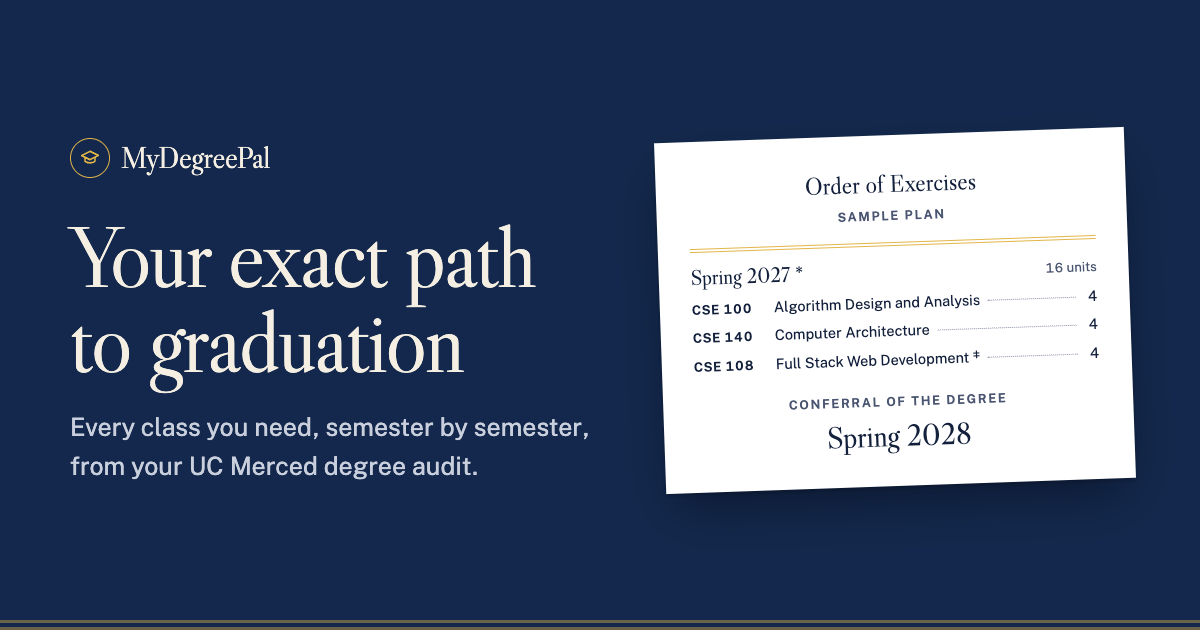
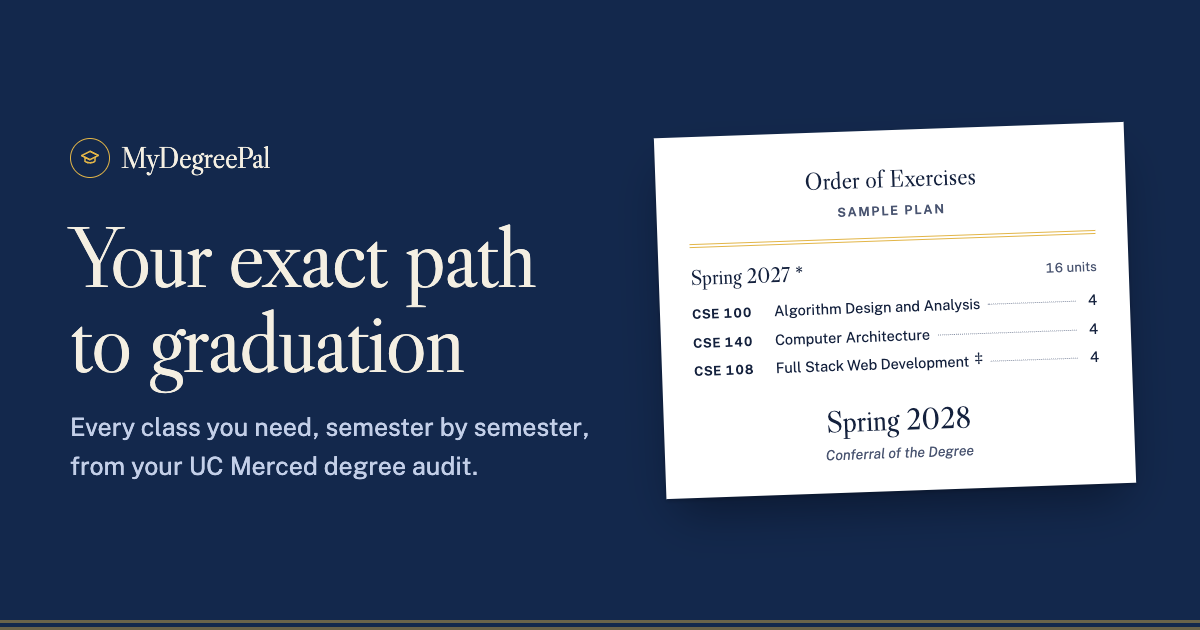
Apply finish-review fixes: ink-only units measure, cover morph, UC Merced lede, conferral order, legible marks

diff --git a/css/style.css b/css/style.css
@@ -74,7 +74,7 @@ button { cursor: pointer; }
 .site-header :focus-visible, .cover :focus-visible, .plan-cover :focus-visible, .whatif :focus-visible { outline-color: var(--foil); }
 
 /* ---- footer: colophon ---------------------------------------------------------- */
-.site-footer { border-top: 1px solid var(--rule); margin-top: 72px; padding: 22px 0 28px; color: var(--ink-2); font-size: 14px; }
+.site-footer { margin-top: 0; padding: 22px 0 28px; color: var(--ink-2); font-size: 14px; }
 .site-footer .wrap { display: flex; justify-content: space-between; gap: 16px; flex-wrap: wrap; }
 .site-footer a { color: var(--ink-2); }
 
@@ -95,7 +95,7 @@ button { cursor: pointer; }
 .link-btn:hover { text-decoration-thickness: 2px; }
 
 /* ---- landing: the program cover ------------------------------------------------- */
-.cover { background: var(--cover); color: var(--ivory); border-bottom: 3px double var(--cover-line); overflow: hidden; }
+.cover { background: var(--cover); color: var(--ivory); border-bottom: 3px double var(--cover-line); overflow: hidden; view-transition-name: cover; }
 .cover-grid { display: grid; grid-template-columns: minmax(0, 1.05fr) minmax(0, .95fr); gap: 56px; align-items: center; padding-top: 72px; padding-bottom: 84px; }
 .cover h1 { font-family: var(--display); font-size: clamp(46px, 6.4vw, 80px); line-height: 1; letter-spacing: -.02em; color: var(--ivory); }
 .cover .lede { margin-top: 22px; font-size: 19px; line-height: 1.5; color: var(--ivory-2); max-width: 30em; }
@@ -113,6 +113,7 @@ button { cursor: pointer; }
 .upload-error { margin-top: 14px; padding: 12px 14px; background: var(--paper); color: var(--flag); font-size: 15px; font-weight: 550; border: 1px solid var(--flag); }
 .alt-action { margin-top: 18px; font-size: 15.5px; color: var(--ivory-2); }
 .alt-action .link-btn { color: var(--foil); }
+.cover-independent { margin-top: 26px; font-size: 13.5px; color: var(--ivory-2); }
 
 /* the opened program beside the cover: a real sample, set as a printed page */
 .specimen { margin: 0; position: relative; }
@@ -127,18 +128,23 @@ button { cursor: pointer; }
 .specimen .term-head span { font-family: var(--sans); font-size: 13px; color: var(--ink-2); }
 .specimen ol { list-style: none; margin: 6px 0 0; padding: 0; font-size: 14.5px; }
 .specimen li { display: grid; grid-template-columns: 74px minmax(0, 1fr) auto; gap: 8px; align-items: baseline; padding: 3px 0; }
-.specimen li b { font-weight: 650; font-size: 13px; letter-spacing: .04em; }
+.specimen li b { font-weight: 650; font-size: 13px; letter-spacing: .04em; white-space: nowrap; }
+.specimen .glyph { font-size: 19px; vertical-align: -4px; margin: 0 0 0 5px; }
+.specimen figcaption .glyph { color: var(--ivory); margin: 0 3px 0 0; }
 .specimen .lead { display: flex; align-items: baseline; min-width: 0; }
-.specimen .lead span { white-space: nowrap; overflow: hidden; text-overflow: ellipsis; }
+.specimen .lead > span:first-child { white-space: nowrap; overflow: hidden; text-overflow: ellipsis; }
 .specimen .lead::after { content: ""; flex: 1; min-width: 12px; margin: 0 4px 0 8px; border-bottom: 1.5px dotted var(--rule-strong); transform: translateY(-4px); }
 .specimen .conferral-line { margin-top: 18px; text-align: center; }
-.specimen .conferral-line span { display: block; color: var(--ink-2); }
-.specimen .conferral-line strong { display: block; font-family: var(--display); font-weight: 400; font-size: 30px; margin-top: 2px; }
+.specimen .conferral-line strong { display: block; font-family: var(--display); font-weight: 400; font-size: 30px; }
+.specimen .conferral-line span { display: block; color: var(--ink-2); font-style: italic; font-size: 14px; }
+.specimen .more-line { color: var(--ink-2); font-style: italic; font-size: 13.5px; padding: 3px 0 0 82px; }
 .specimen figcaption { margin-top: 18px; font-size: 13px; color: var(--ivory-2); text-align: right; }
+.specimen figcaption .key { display: block; margin-top: 2px; }
 
 .rule-double { height: 4px; border-top: 1px solid var(--foil); border-bottom: 1px solid var(--foil); }
 
 /* instructions and the registration slip */
+.paper-band { background: var(--paper); padding-bottom: 64px; border-bottom: 1px solid var(--rule); }
 .instructions { padding-top: 64px; display: grid; grid-template-columns: 260px minmax(0, 1fr); gap: 40px; }
 .instructions h2 { font-family: var(--display); font-size: 34px; line-height: 1.05; }
 .instructions h2 + p { margin-top: 10px; color: var(--ink-2); font-size: 15px; }
@@ -155,11 +161,11 @@ button { cursor: pointer; }
 .notice-links { display: flex; gap: 20px; }
 
 /* ---- plan: cover band, hood band, then the interior sheet ---------------------- */
-.plan-cover { background: var(--cover); color: var(--ivory); }
+.plan-cover { background: var(--cover); color: var(--ivory); view-transition-name: cover; }
 .plan-cover .wrap { display: grid; grid-template-columns: minmax(0, 1fr) auto; gap: 18px 32px; align-items: end; padding-top: 44px; padding-bottom: 36px; }
 .plan-cover h1 { font-family: var(--display); color: var(--ivory); letter-spacing: -.02em; }
 .plan-cover h1 .lead-in { display: block; font-size: clamp(22px, 2.6vw, 30px); color: var(--ivory-2); letter-spacing: -.005em; margin-bottom: 6px; }
-.plan-cover h1 .term { display: block; font-size: clamp(52px, 8.4vw, 104px); line-height: .95; }
+.plan-cover h1 .term { display: block; font-size: clamp(52px, 8vw, 96px); line-height: .95; }
 .plan-cover h1 .term-plain { display: block; font-size: clamp(40px, 5.6vw, 66px); line-height: 1; }
 .byline { margin-top: 18px; color: var(--foil); }
 .result-sub { margin-top: 10px; color: var(--ivory-2); max-width: 44em; font-size: 16px; }
@@ -173,27 +179,24 @@ button { cursor: pointer; }
 .head-actions { display: flex; gap: 10px; flex-wrap: wrap; }
 
 .hood { height: 14px; background: var(--hood); border-bottom: 1px solid rgba(20, 33, 61, .12); }
-.hood-caption { display: flex; justify-content: flex-end; padding-top: 8px; color: var(--ink-2); }
-.hood-caption i { display: inline-block; width: 10px; height: 10px; border-radius: 50%; background: var(--hood); border: 1px solid rgba(20, 33, 61, .35); margin-right: 8px; transform: translateY(1px); }
 
 .sheet {
-  background: var(--paper); margin-top: 14px; padding: 34px 40px 44px;
+  background: var(--paper); margin-top: 22px; margin-bottom: 64px; padding: 34px 40px 44px;
   box-shadow: 0 1px 2px rgba(20, 33, 61, .06), 0 18px 40px -24px rgba(20, 33, 61, .35);
 }
 
 /* units measure: earned, in progress, planned, against what the degree requires */
 .measure { display: grid; gap: 10px; }
-.bar { position: relative; display: flex; height: 12px; background: var(--ground); box-shadow: inset 0 0 0 1px var(--rule-strong); }
+.bar { position: relative; display: flex; height: 12px; gap: 3px; }
 .bar span { display: block; height: 100%; }
-.b-done { background: var(--cover); }
-.b-now { background: repeating-linear-gradient(135deg, var(--cover) 0 2px, #8796b3 2px 5px); }
-.b-plan { background: var(--hood); box-shadow: inset 0 0 0 1px rgba(20, 33, 61, .5); }
+.b-done { background: var(--ink); }
+.b-now { background: repeating-linear-gradient(135deg, var(--ink) 0 1.5px, transparent 1.5px 5px); box-shadow: inset 0 0 0 1.5px var(--ink); }
+.b-plan { box-shadow: inset 0 0 0 1.5px var(--ink); }
 .legend { display: flex; flex-wrap: wrap; gap: 6px 26px; font-size: 14.5px; color: var(--ink-2); }
 .legend b { color: var(--ink); font-weight: 700; }
-.legend i { display: inline-block; width: 12px; height: 12px; margin-right: 7px; transform: translateY(1px); box-shadow: inset 0 0 0 1px rgba(20, 33, 61, .5); }
-.legend .k-done { background: var(--cover); }
-.legend .k-now { background: repeating-linear-gradient(135deg, var(--cover) 0 2px, #8796b3 2px 5px); }
-.legend .k-plan { background: var(--hood); }
+.legend i { display: inline-block; width: 12px; height: 12px; margin-right: 7px; transform: translateY(1px); box-shadow: inset 0 0 0 1.5px var(--ink); }
+.legend .k-done { background: var(--ink); }
+.legend .k-now { background: repeating-linear-gradient(135deg, var(--ink) 0 1.5px, transparent 1.5px 5px); }
 
 .controls { display: flex; flex-wrap: wrap; gap: 16px 34px; align-items: flex-end; margin-top: 28px; padding: 18px 0; border-top: 1px solid var(--rule); border-bottom: 1px solid var(--rule); }
 .control label, .control .label { display: block; font-size: 12px; font-weight: 700; letter-spacing: .12em; text-transform: uppercase; color: var(--ink-2); margin-bottom: 7px; }
@@ -225,7 +228,7 @@ button { cursor: pointer; }
 .semester-head { display: flex; align-items: baseline; justify-content: space-between; gap: 12px; padding-bottom: 8px; border-bottom: 1px solid var(--ink); }
 .semester-head h2 { font-family: var(--display); font-size: 30px; letter-spacing: -.01em; display: flex; align-items: baseline; gap: 12px; }
 .semester-head .numeral { font-size: 18px; color: var(--ink-2); min-width: 2.2em; }
-.semester-head .mark { font-family: var(--sans); font-size: 20px; color: var(--ink-2); }
+.semester-head .mark { font-size: 26px; color: var(--ink-2); }
 .semester-meta { display: flex; align-items: baseline; gap: 16px; font-size: 14px; color: var(--ink-2); white-space: nowrap; }
 .semester-meta .smallcaps { font-size: 11.5px; }
 .semester-note { margin-top: 10px; padding: 9px 14px; background: #fbf6e8; font-size: 14.5px; }
@@ -239,10 +242,11 @@ button { cursor: pointer; }
 .c-code { font-weight: 700; font-size: 14px; letter-spacing: .05em; white-space: nowrap; }
 .c-main { min-width: 0; }
 .c-lead { display: flex; align-items: baseline; min-width: 0; }
-.c-title { font-weight: 500; font-size: 16.5px; white-space: nowrap; overflow: hidden; text-overflow: ellipsis; }
+.c-title { font-weight: 500; font-size: 16.5px; min-width: 0; }
 .c-lead::after { content: ""; flex: 1; min-width: 16px; margin: 0 0 0 10px; border-bottom: 1.5px dotted var(--rule-strong); transform: translateY(-5px); }
 .c-why { display: block; font-size: 14px; color: var(--ink-2); margin-top: 1px; }
 .c-tag { font-size: 11.5px; font-weight: 700; letter-spacing: .1em; text-transform: uppercase; color: var(--ink-2); white-space: nowrap; }
+.glyph { font-family: var(--display); font-size: 24px; line-height: 0; vertical-align: -5px; font-weight: 400; letter-spacing: 0; margin-right: 5px; color: var(--ink); }
 .c-units { text-align: right; font-weight: 650; font-size: 16px; }
 .chev { width: 14px; height: 14px; color: var(--ink-2); align-self: center; transition: transform 200ms var(--ease-out); }
 .course-row[aria-expanded="true"] { background: #f6f7fa; }
@@ -255,13 +259,12 @@ button { cursor: pointer; }
 .slot .c-code { font-style: italic; font-weight: 600; letter-spacing: 0; }
 
 .marks { margin-top: 26px; padding-top: 14px; border-top: 1px solid var(--rule); display: flex; flex-wrap: wrap; gap: 6px 24px; font-size: 13.5px; color: var(--ink-2); }
-.marks b { color: var(--ink); font-size: 15px; margin-right: 4px; }
+.marks b { font-family: var(--display); font-weight: 400; color: var(--ink); font-size: 24px; line-height: 0; vertical-align: -6px; margin-right: 6px; }
 
 .conferral { margin-top: 40px; text-align: center; }
 .conferral .rule-double { max-width: 260px; margin: 0 auto 18px; }
-.conferral p { color: var(--ink-2); }
-.conferral strong { display: block; font-family: var(--display); font-weight: 400; font-size: clamp(38px, 5vw, 56px); line-height: 1.05; margin-top: 6px; color: var(--ink); }
-.conferral .program { margin-top: 8px; font-style: italic; }
+.conferral strong { display: block; font-family: var(--display); font-weight: 400; font-size: clamp(38px, 5vw, 56px); line-height: 1.05; color: var(--ink); }
+.conferral p { margin-top: 8px; color: var(--ink-2); font-style: italic; }
 
 /* notes for candidates */
 .rail { display: grid; gap: 30px; position: sticky; top: 86px; padding-left: 28px; border-left: 1px solid var(--rule); }
@@ -286,6 +289,9 @@ button { cursor: pointer; }
 .unfold .semester:nth-child(n+5) { animation-delay: 420ms; }
 .unfold .conferral { animation-delay: 480ms; }
 @keyframes unfold { from { opacity: 0; transform: translateY(14px); clip-path: inset(0 0 40% 0); } to { opacity: 1; transform: none; clip-path: inset(0); } }
+/* the cover closes upward into the plan's band */
+::view-transition-group(cover) { animation-duration: 420ms; animation-timing-function: var(--ease-out); }
+::view-transition-old(cover), ::view-transition-new(cover) { height: 100%; object-fit: cover; object-position: top; }
 ::view-transition-old(root), ::view-transition-new(root) { animation-duration: 260ms; animation-timing-function: var(--ease-out); }
 
 /* ---- catalog and article pages ------------------------------------------------- */
@@ -302,14 +308,14 @@ button { cursor: pointer; }
 .catalog-list summary { display: grid; grid-template-columns: 104px minmax(0, 1fr) 70px; gap: 12px; align-items: baseline; padding: 12px 4px; cursor: pointer; list-style: none; transition: background-color 160ms var(--ease-out); }
 .catalog-list summary::-webkit-details-marker { display: none; }
 .catalog-list summary:hover, .catalog-list details[open] summary { background: #f6f7fa; }
-.catalog-list .c-lead .mark { margin-left: 8px; color: var(--ink-2); font-weight: 700; }
+.catalog-list .c-lead .mark { margin-left: 8px; font-family: var(--display); font-size: 19px; color: var(--ink-2); }
 .catalog-units { text-align: right; color: var(--ink-2); font-size: 14px; white-space: nowrap; }
 .catalog-body { padding: 4px 18px 18px 120px; color: var(--ink-2); font-size: 15px; display: grid; gap: 8px; background: #f6f7fa; }
 .catalog-body p { max-width: 68ch; }
 .catalog-body b { color: var(--ink); font-weight: 650; }
 .catalog-empty { padding: 22px 4px; color: var(--ink-2); border-top: 1px solid var(--ink); }
 .catalog-note { margin-top: 18px; font-size: 13.5px; color: var(--ink-2); }
-.catalog-note b { color: var(--ink); }
+.catalog-note b { font-family: var(--display); font-weight: 400; font-size: 18px; color: var(--ink); }
 .more { display: flex; justify-content: center; margin-top: 22px; }
 
 .article { max-width: 68ch; }
@@ -334,13 +340,13 @@ button { cursor: pointer; }
   .cover .lede { font-size: 17px; }
   .dropzone { padding: 20px 18px 18px; }
   .specimen-page { padding: 22px 18px 20px; transform: rotate(-1deg); }
-  .specimen ol li:nth-child(n+4), .specimen .fall { display: none; }
-  .specimen li { grid-template-columns: 66px minmax(0, 1fr) auto; font-size: 14px; }
+  .specimen .fall { display: none; }
+  .specimen li { grid-template-columns: 76px minmax(0, 1fr) auto; font-size: 14px; }
   .steps { grid-template-columns: minmax(0, 1fr); }
   .steps li, .steps li + li { padding: 16px 0 14px; border-left: 0; }
   .steps li + li { border-top: 1px solid var(--rule); }
   .notice { padding: 14px 16px; }
-  .sheet { margin: 10px -16px 0; padding: 22px 16px 32px; }
+  .sheet { margin: 10px -16px 0; padding: 22px 16px 40px; }
   .plan-cover .wrap { padding-top: 30px; padding-bottom: 26px; }
   .seal { width: 62px; height: 62px; font-size: 10px; }
   .controls { gap: 16px; }
@@ -371,9 +377,10 @@ button { cursor: pointer; }
   ::view-transition-old(root), ::view-transition-new(root) { animation: none !important; }
 }
 
+@page { margin: 14mm; }
 @media print {
   body { background: #fff; font-size: 11.5pt; }
-  .site-header, .site-footer, .controls, .head-actions, .fix, .whatif .btn, .chev, .swap, .rail .no-print, .hood-caption { display: none !important; }
+  .site-header, .site-footer, .controls, .head-actions, .fix, .whatif .btn, .chev, .swap, .rail .no-print { display: none !important; }
   .plan-cover { background: #fff; color: var(--ink); border-bottom: 3px double var(--ink); }
   .plan-cover h1, .plan-cover h1 .lead-in, .result-sub, .standing { color: var(--ink); }
   .byline { color: var(--ink-2); }

diff --git a/index.html b/index.html
@@ -44,7 +44,7 @@
         <div class="wrap cover-grid">
           <div class="cover-copy">
             <h1 id="landing-title" tabindex="-1">Your exact path to graduation</h1>
-            <p class="lede">Upload your degree audit and get every class you need, semester by semester.</p>
+            <p class="lede">Upload your UC Merced degree audit from MyDegreePath and get every class you need, semester by semester.</p>
             <div class="dropzone" id="dropzone">
               <span class="btn btn-gold">Upload your audit</span>
               <input id="audit-file" type="file" accept=".html,.htm" aria-label="Upload your degree audit" aria-describedby="drop-hint">
@@ -52,6 +52,7 @@
             </div>
             <p class="upload-error" id="upload-error" role="alert" hidden></p>
             <p class="alt-action">Just looking? <button class="link-btn" id="sample-btn" type="button">See a sample plan</button></p>
+            <p class="cover-independent">An independent student project, not affiliated with UC Merced.</p>
           </div>
 
           <figure class="specimen">
@@ -63,22 +64,23 @@
               <ol>
                 <li><b>CSE 100</b><span class="lead"><span>Algorithm Design and Analysis</span></span><span>4</span></li>
                 <li><b>CSE 140</b><span class="lead"><span>Computer Architecture</span></span><span>4</span></li>
-                <li><b>CSE 108</b><span class="lead"><span>Full Stack Web Development ‡</span></span><span>4</span></li>
-                <li><b>MATH 131</b><span class="lead"><span>Numerical Methods ‡</span></span><span>4</span></li>
+                <li><b>CSE 108</b><span class="lead"><span>Full Stack Web Development</span><span class="glyph">‡</span></span><span>4</span></li>
+                <li><b>MATH 131</b><span class="lead"><span>Numerical Methods</span><span class="glyph">‡</span></span><span>4</span></li>
               </ol>
               <p class="term-head fall">Fall 2027 † <span>16 units</span></p>
               <ol class="fall">
                 <li><b>CSE 160</b><span class="lead"><span>Computer Networks</span></span><span>4</span></li>
                 <li><b>CSE 120</b><span class="lead"><span>Software Engineering</span></span><span>4</span></li>
               </ol>
-              <p class="conferral-line"><span class="smallcaps">Conferral of the Degree</span><strong>Spring 2028</strong></p>
+              <p class="more-line fall">and 2 more classes</p>
+              <p class="conferral-line"><strong>Spring 2028</strong><span>Conferral of the Degree</span></p>
             </div>
-            <figcaption>A sample plan. Yours is built from your own audit.</figcaption>
+            <figcaption>A sample plan. Yours is built from your own audit.<span class="key"><span class="glyph">*</span>published schedule · <span class="glyph">†</span>projected · <span class="glyph">‡</span>swappable</span></figcaption>
           </figure>
         </div>
       </div>
 
-      <div class="wrap">
+      <div class="paper-band"><div class="wrap">
         <div class="instructions">
           <div>
             <h2>How to get your audit</h2>
@@ -98,7 +100,7 @@
             <a href="https://registrar.ucmerced.edu/register" target="_blank" rel="noreferrer">Registration guide</a>
           </span>
         </div>
-      </div>
+      </div></div>
     </section>
 
     <section id="plan" class="plan" hidden></section>

diff --git a/js/app.js b/js/app.js
@@ -122,8 +122,10 @@
     if (/economics/i.test(p)) return { cls: 'hood-economics', name: 'Copper', field: 'Economics' };
     if (/management|business/i.test(p)) return { cls: 'hood-business', name: 'Drab', field: 'Business' };
     if (/public health|nursing/i.test(p)) return { cls: 'hood-health', name: 'Salmon', field: 'Public Health' };
+    // the degree type decides before subject words: "Political Science, B.A." is an arts degree
+    if (/\bB\.?\s?A\b/i.test(p)) return { cls: 'hood-arts', name: 'White', field: 'Arts and Letters' };
     if (/\bB\.?\s?S\b|science|biology|chemistry|physics|mathematics/i.test(p)) return { cls: 'hood-science', name: 'Golden yellow', field: 'Science' };
-    if (/\bB\.?\s?A\b|arts|history|english|literature|philosophy/i.test(p)) return { cls: 'hood-arts', name: 'White', field: 'Arts and Letters' };
+    if (/arts|history|english|literature|philosophy/i.test(p)) return { cls: 'hood-arts', name: 'White', field: 'Arts and Letters' };
     return null;
   }
 
@@ -154,7 +156,7 @@
         <div class="semesters">${plan.semesters.map(semesterHtml).join('')}</div>${marksHtml(plan)}${conferralHtml(plan)}`
       : doneHtml();
     root.innerHTML = headerHtml(plan)
-      + `<div class="hood"></div><div class="wrap">${hood ? `<p class="hood-caption smallcaps"><span><i></i>Hood color: ${esc(hood.name)} · ${esc(hood.field)}</span></p>` : ''}
+      + `<div class="hood"${hood ? ` title="${esc(hood.name)}: the ${esc(hood.field)} hood color"` : ''}></div><div class="wrap">
         <div class="sheet">${progressHtml(plan)}${controlsHtml(plan)}${adviceHtml(plan)}
           <div class="plan-grid"><div class="order">${order}</div>${railHtml(plan)}</div>
         </div></div>`;
@@ -290,10 +292,10 @@
 
   // required classes carry no mark; everything else is named in small caps
   function tagFor(item) {
-    if (item.code.startsWith('SLOT')) return '° Your pick';
+    if (item.code.startsWith('SLOT')) return '<span class="glyph" aria-hidden="true">°</span>Your pick';
     if (item.kind === 'prereq') return 'Prerequisite';
     if (item.kind === 'coreq') return 'Taken together';
-    if (item.kind === 'choice') return '‡ Swappable';
+    if (item.kind === 'choice') return '<span class="glyph" aria-hidden="true">‡</span>Swappable';
     return '';
   }
 
@@ -336,7 +338,7 @@
       <button class="course-row" type="button" data-row="${esc(item.code)}" aria-expanded="${open}">
         <span class="c-code">${esc(code)}</span>
         <span class="c-main"><span class="c-lead"><span class="c-title">${esc(item.title)}</span></span><span class="c-why">${esc(why)}</span></span>
-        <span class="c-tag">${esc(tag)}</span>
+        <span class="c-tag">${tag}</span>
         <span class="c-units">${esc(item.units)}<span class="sr-only"> units</span></span>
         ${chevron}
       </button>
@@ -369,10 +371,10 @@
 
   function conferralHtml(plan) {
     if (!plan.graduation || plan.undeclared) return '';
+    const line = ['Conferral of the Degree', state.audit.program].filter(Boolean).join(' · ');
     return `<div class="conferral"><div class="rule-double"></div>
-      <p class="smallcaps">Conferral of the Degree</p>
       <strong>${esc(plan.graduation)}</strong>
-      ${state.audit.program ? `<p class="program">${esc(state.audit.program)}</p>` : ''}
+      <p>${esc(line)}</p>
     </div>`;
   }
 

diff --git a/js/catalog.js b/js/catalog.js
@@ -36,7 +36,7 @@
     if (c.crn) lines.push(`<p><b>Spring 2027 CRNs:</b> ${esc(c.crn.join(', '))}</p>`);
     return `<details><summary>
         <span class="c-code">${esc(code)}</span>
-        <span class="c-lead"><span class="c-title">${esc(c.t)}</span>${c.m & 1 ? '<span class="mark" aria-hidden="true">*</span><span class="sr-only">, on the Spring 2027 schedule</span>' : ''}</span>
+        <span class="c-lead"><span class="c-title">${esc(c.t)}</span>${c.m & 1 && $('when').value !== 's27' ? '<span class="mark" aria-hidden="true">*</span><span class="sr-only">, on the Spring 2027 schedule</span>' : ''}</span>
         <span class="catalog-units">${esc(c.u)} ${c.u === 1 ? 'unit' : 'units'}</span>
       </summary><div class="catalog-body">${lines.join('')}</div></details>`;
   }
@@ -46,6 +46,7 @@
     $('count').textContent = `${hits.length.toLocaleString()} ${hits.length === 1 ? 'course' : 'courses'}`;
     $('list').innerHTML = hits.slice(0, shown).map(row).join('') || '<p class="catalog-empty">' + ($('when').value === 'all' ? 'No courses match. Try a broader search.' : 'No courses match in this list. Try “All undergraduate courses”.') + '</p>';
     $('more').hidden = hits.length <= shown;
+    $('catalog-note').hidden = $('when').value === 's27';
   }
   function refresh() { shown = PAGE; render(); }
 

diff --git a/tools/og.html b/tools/og.html
@@ -24,9 +24,9 @@
     <ol>
       <li><b>CSE 100</b><span class="lead"><span>Algorithm Design and Analysis</span></span><span>4</span></li>
       <li><b>CSE 140</b><span class="lead"><span>Computer Architecture</span></span><span>4</span></li>
-      <li><b>CSE 108</b><span class="lead"><span>Full Stack Web Development ‡</span></span><span>4</span></li>
+      <li><b>CSE 108</b><span class="lead"><span>Full Stack Web Development</span><span class="glyph">‡</span></span><span>4</span></li>
     </ol>
-    <p class="conferral-line"><span class="smallcaps">Conferral of the Degree</span><strong>Spring 2028</strong></p>
+    <p class="conferral-line"><strong>Spring 2028</strong><span>Conferral of the Degree</span></p>
   </div></div>
 </div>
 </body></html>

diff --git a/catalog.html b/catalog.html
@@ -51,7 +51,7 @@
         <p class="result-count" id="count" role="status"></p>
         <div class="catalog-list" id="list"></div>
         <div class="more"><button class="btn" id="more" type="button" hidden>Show more</button></div>
-        <p class="catalog-note"><b>*</b> On the published Spring 2027 schedule.</p>
+        <p class="catalog-note" id="catalog-note" hidden><b>*</b> On the published Spring 2027 schedule.</p>
       </div>
     </div>
   </main>

diff --git a/.impeccable/surfaces/index-html.md b/.impeccable/surfaces/index-html.md
@@ -21,6 +21,8 @@ STORY: The visitor sees, in one viewport, that their own audit becomes this prog
 
 FIRST VIEWPORT: Desktop: full-width navy cover band, ~640px tall. Left 6 columns: wordmark in gold small caps on a gold double rule; H1 "Your exact path to graduation" in Caslon Display ~76px ivory; lede; the upload as a gold-double-ruled frame containing the primary gold button and the privacy hint; "See a sample plan" link. Right 6 columns: the opened program interior (white page, slight rotation -2deg, real shadow) showing the sample's Order of Exercises: Spring 2027 with 4 courses and leader dots, Fall 2027 start, and "Conferral of the Degree · Spring 2028" at its foot, labelled "Sample". Mobile: the cover stacks, the program page shows below the upload, cropped to Spring 2027.
 
+ADAPTATIONS (after finish review 2026-11-03): the landing interior sits on white program stock; the plan, catalog and privacy pages set a white sheet on a cool grey desk (#e9ecf2) so the printed page reads as an object. The units measure is drawn in ink only (solid earned, hatched in progress, outlined planned); the hood colour appears only as the band under the cover, never as data.
+
 FORM: Commencement program booklet; grounded list position 4 of 7 (assigned by the roll); seed key d9eb1f9f. Raises: from the jackfield schedule, state drawn by mark and stroke, not hue; from the silk canopy, total palette commitment, so the cover drenches its whole band; from the linocut broadside, one monumental line per sheet, the conferral term set largest on the plan.
 
 Signature interaction: when a plan loads, the cover closes upward to a band and the exercises unfold in sequence (staggered reveal, expo ease-out, 60ms steps, all content visible without motion under prefers-reduced-motion). Motion grammar: only this unfold plus row open/close; nothing else moves.
